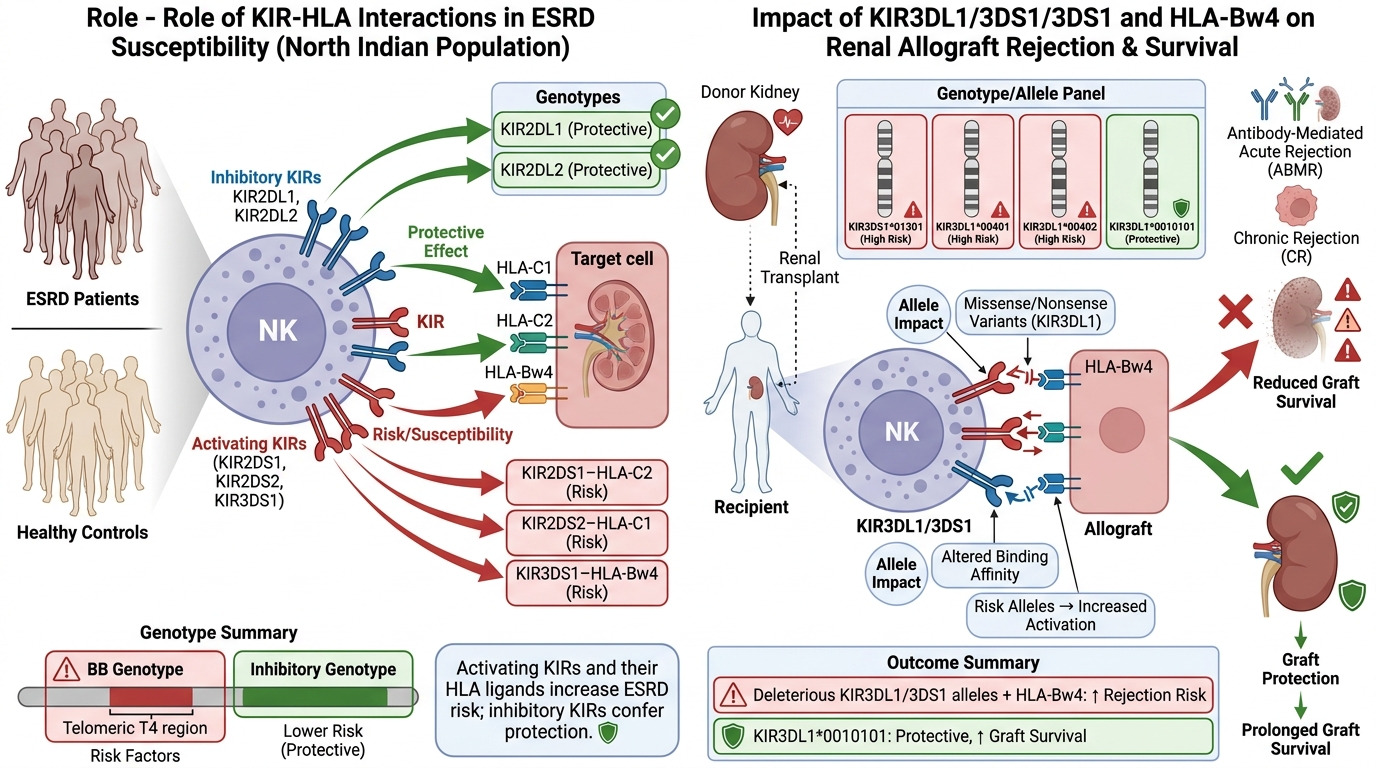
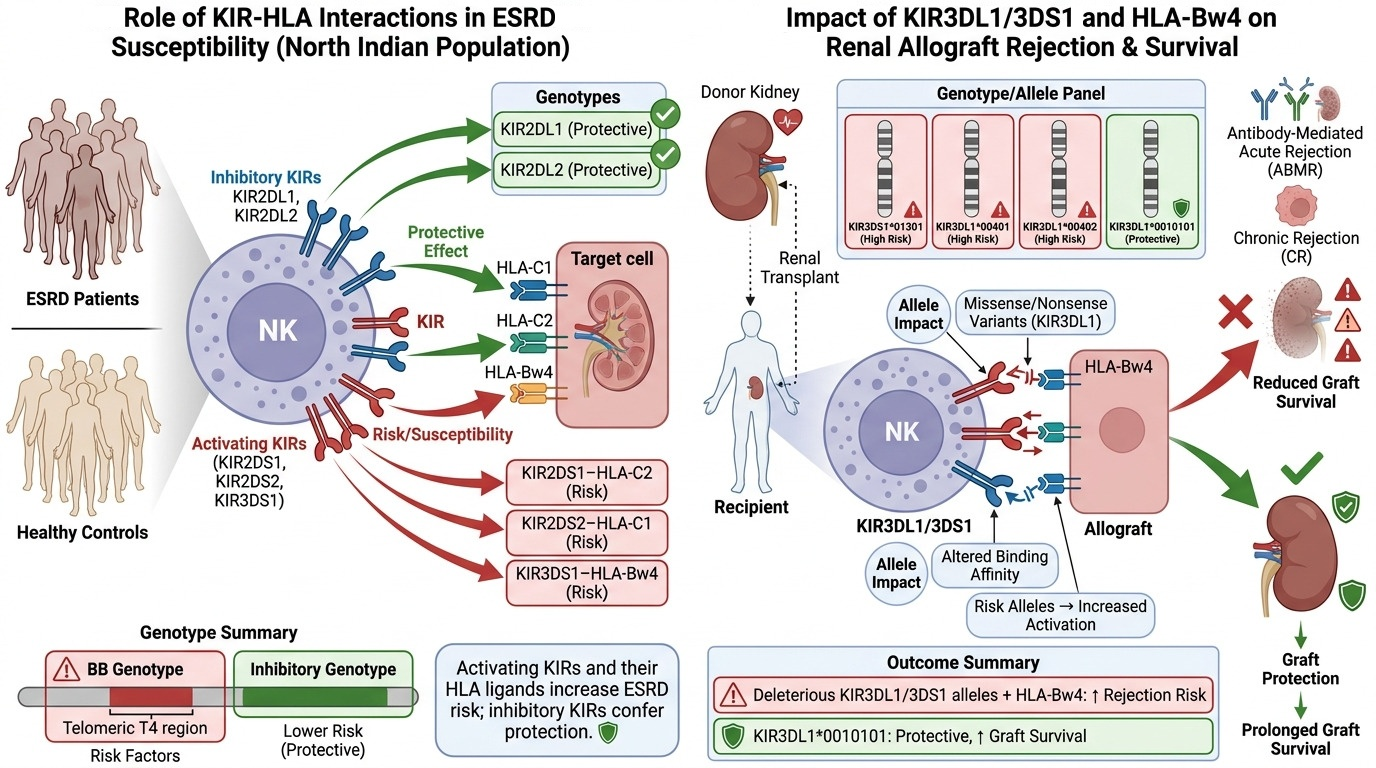
Fix transplant illustration text; remove SGPGIMS attribution from figure captions

Changed region(s): [[0.5312, 0.0, 0.9688, 0.0625], [0.0625, 0.0, 0.4375, 0.0625]]

diff --git a/research.html b/research.html
@@ -81,7 +81,7 @@
       </tbody>
     </table></div>
     <h3>Research contributions</h3>
-    <figure class="rise"><img src="assets/img/transplant-kir-hla-summary.jpg" width="1376" height="768" alt="Two-panel summary of KIR-HLA interactions in end-stage renal disease and renal allograft rejection and survival" loading="lazy"><figcaption>Summary of the kidney transplant immunogenetics work, from the SGPGIMS faculty interview slides: KIR-HLA interactions in end-stage renal disease in a North Indian population (left), and the effect of KIR3DL1/3DS1 alleles and HLA-Bw4 ligands on renal allograft rejection and survival (right).</figcaption></figure>
+    <figure class="rise"><img src="assets/img/transplant-kir-hla-summary.jpg" width="1376" height="768" alt="Two-panel summary of KIR-HLA interactions in end-stage renal disease and renal allograft rejection and survival" loading="lazy"><figcaption>Summary of the kidney transplant immunogenetics work: KIR-HLA interactions in end-stage renal disease in a North Indian population (left), and the effect of KIR3DL1/3DS1 alleles and HLA-Bw4 ligands on renal allograft rejection and survival (right).</figcaption></figure>
     <figure class="fig-side sq"><img src="assets/img/tts-2016-hong-kong.jpg" width="287" height="287" alt="Swayam Prakash speaking at a podium" loading="lazy"><figcaption>Presenting at the 26th International Congress of The Transplantation Society, Hong Kong, 2016.</figcaption></figure>
     <ul>
       <li><strong>NK-cell receptors and graft outcome.</strong> KIR-HLA ligand incompatibility in renal transplantation (<a href="https://doi.org/10.4103/0971-4065.134655" target="_blank" rel="noopener">Indian J Nephrol 2015</a>) and KIR3DL1/3DS1 alleles with HLA-Bw4 ligands in end-stage renal disease and long-term allograft survival (<a href="https://doi.org/10.1016/j.gene.2017.09.033" target="_blank" rel="noopener">Gene 2017</a>), presented in the Histocompatibility session of the 26th International Congress of The Transplantation Society, Hong Kong (2016). KIR genotypes from North Indian patients with end-stage renal disease were deposited in the Allele Frequency Net Database.</li>
@@ -154,7 +154,7 @@
           <tr><td>1.3 Breadth and mechanism</td><td>Quantify antibodies, TFH, cytotoxic and TRM-like responses in homologous or surrogate models.</td><td>Mechanistic correlate package and lead-candidate selection.</td></tr>
         </tbody>
       </table></div>
-      <figure class="rise"><img src="assets/img/vaccine-pan-corona-summary.jpg" width="1376" height="768" alt="Two-panel summary of the pan-coronavirus vaccine program: epitope discovery from SARS-CoV-2, human and animal coronaviruses, and a multi-epitope vaccine tested in HLA-transgenic mice with protection against multiple SARS-CoV-2 variants" loading="lazy"><figcaption>Summary of the pan-betacoronavirus vaccine program, from the SGPGIMS faculty interview slides: genome-wide discovery of conserved B-cell, CD4 and CD8 T-cell epitopes across human and animal coronaviruses (left), and a multi-epitope construct that protected HLA-transgenic mice against multiple SARS-CoV-2 variants (right).</figcaption></figure>
+      <figure class="rise"><img src="assets/img/vaccine-pan-corona-summary.jpg" width="1376" height="768" alt="Two-panel summary of the pan-coronavirus vaccine program: epitope discovery from SARS-CoV-2, human and animal coronaviruses, and a multi-epitope vaccine tested in HLA-transgenic mice with protection against multiple SARS-CoV-2 variants" loading="lazy"><figcaption>Summary of the pan-betacoronavirus vaccine program: genome-wide discovery of conserved B-cell, CD4 and CD8 T-cell epitopes across human and animal coronaviruses (left), and a multi-epitope construct that protected HLA-transgenic mice against multiple SARS-CoV-2 variants (right).</figcaption></figure>
       <div class="fig-row two">
         <figure><img src="assets/img/bsl3-training-team.jpg" width="1600" height="1014" alt="Five researchers in full protective suits at the UC Irvine National BSL-3 Training Center" loading="lazy"><figcaption>With colleagues in full protective equipment at the UC Irvine National BSL-3 Training Center.</figcaption></figure>
         <figure><img src="assets/img/bench-nbc4-2021.jpg" width="1200" height="675" alt="Swayam Prakash pipetting samples at a laboratory bench" loading="lazy"><figcaption>At the bench at UC Irvine, from NBC4 Los Angeles coverage of the pan-coronavirus vaccine work (January 2021).</figcaption></figure>
